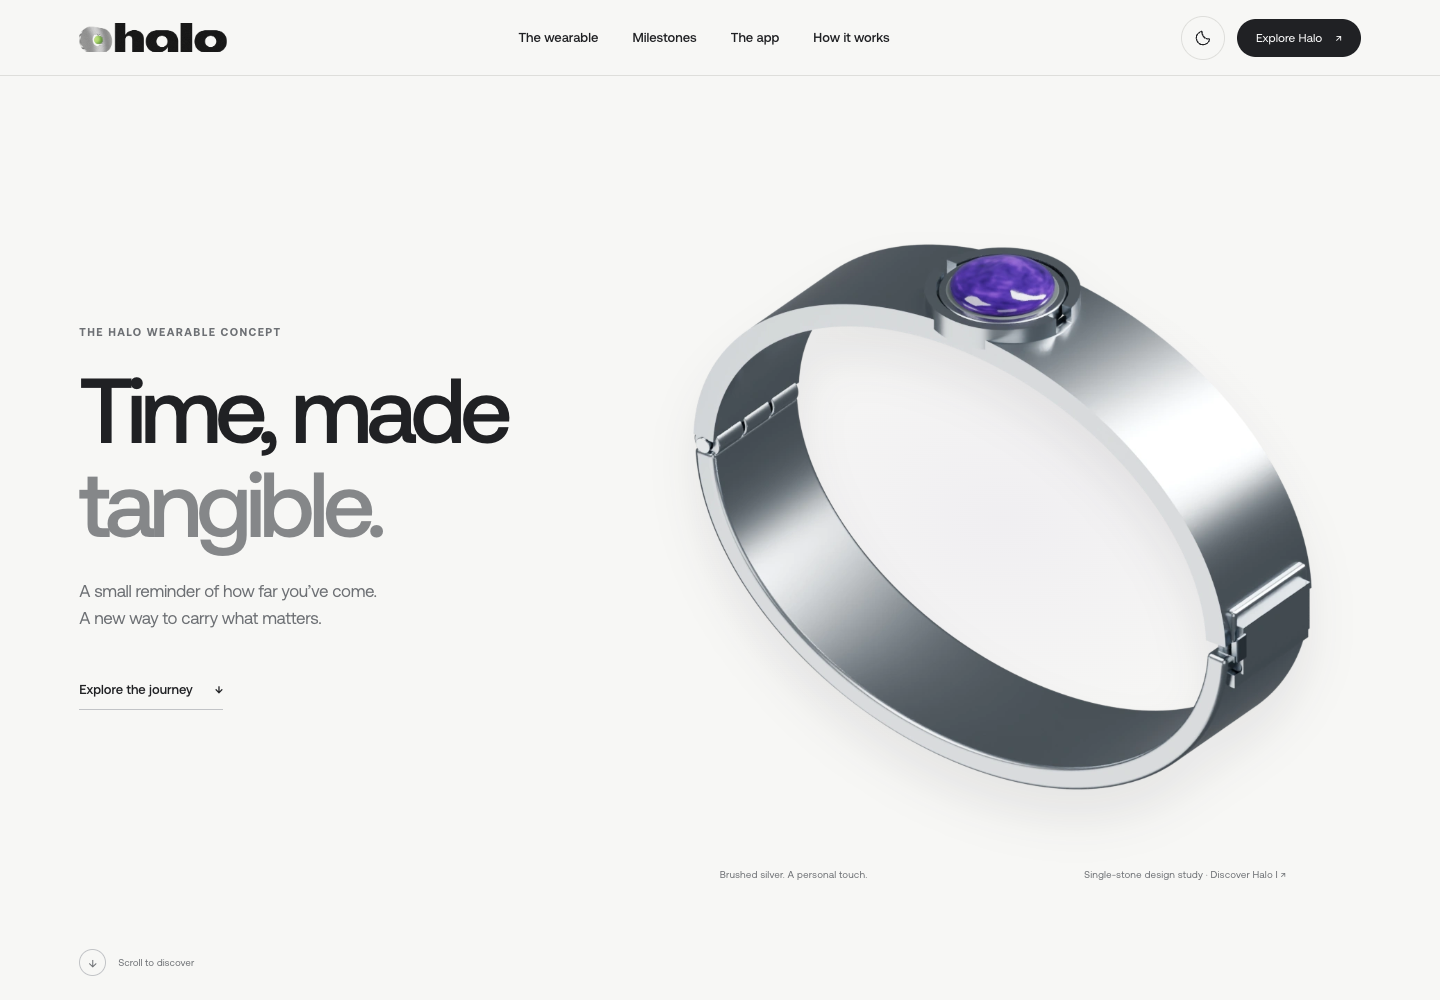
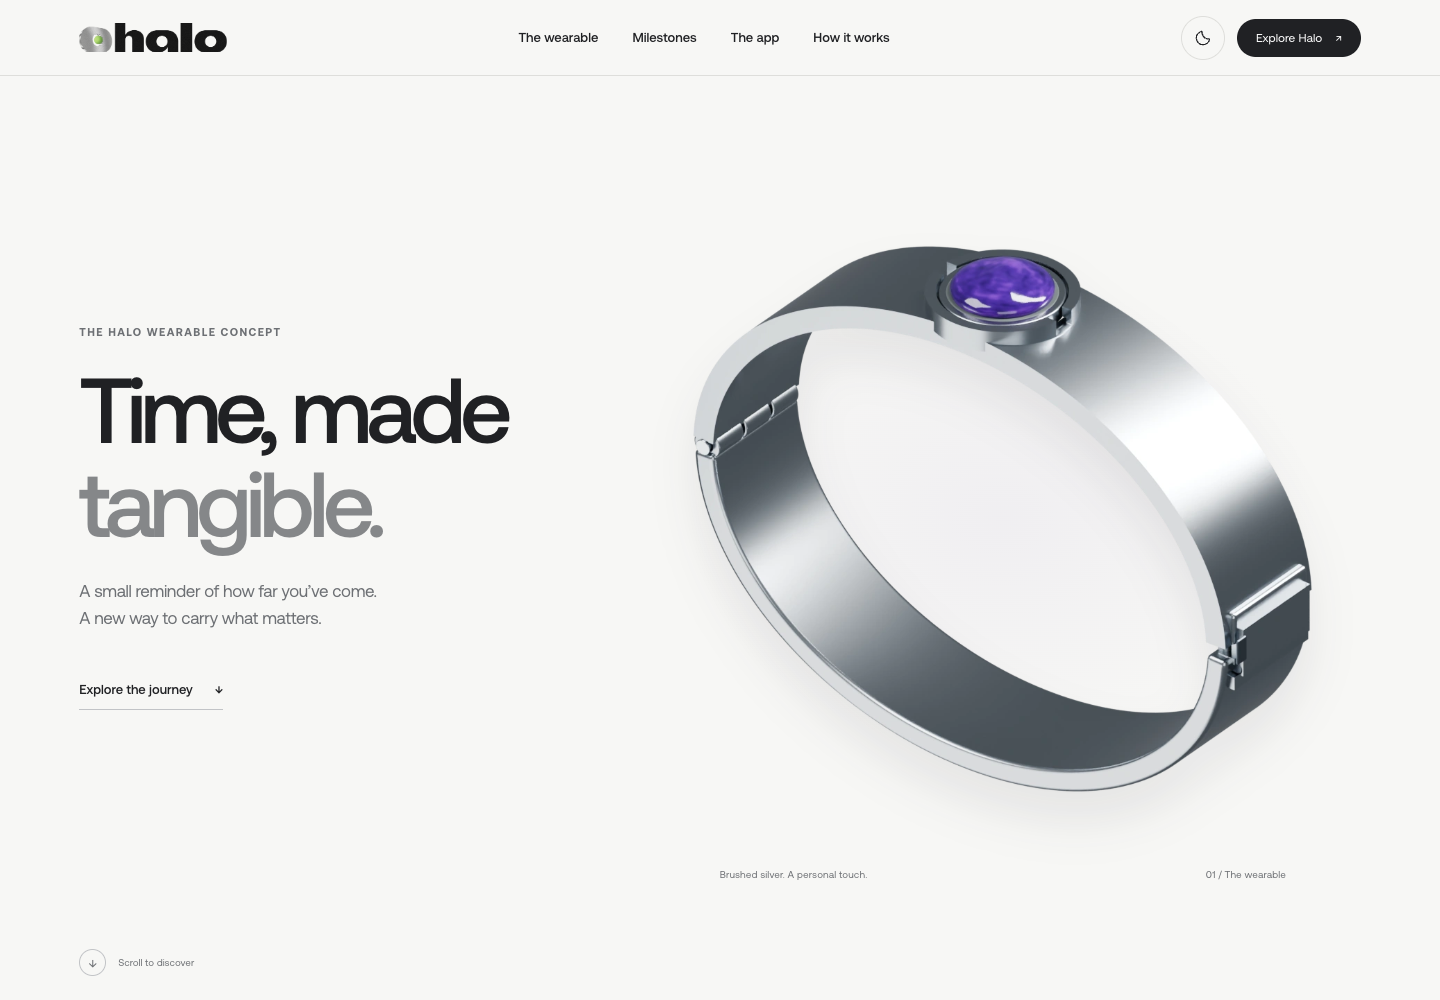
Keep landing B minimal without appended Halo I sections

diff --git a/website/index.html b/website/index.html
@@ -11,14 +11,14 @@
   <script src="theme.js?v=circular-minerals-2"></script>
   <link rel="preload" href="original/assets/fonts/AeonikPro-Regular.otf" as="font" type="font/otf" crossorigin>
   <link rel="preload" href="original/assets/fonts/AeonikPro-Medium.otf" as="font" type="font/otf" crossorigin>
-  <link rel="icon" href="original/assets/icon.png"><link rel="stylesheet" href="style.css?v=landing-b-1"><link rel="stylesheet" href="halo-i-sections.css?v=halo-i-2">
+  <link rel="icon" href="original/assets/icon.png"><link rel="stylesheet" href="style.css?v=landing-b-2">
 </head>
 <body>
   <a class="skip" href="#main">Skip to content</a>
   <header class="nav"><a class="brand" href="/" aria-label="Halo home"><span class="brand-lockup" role="img" aria-label="Halo — silver sculptural mark with a green center"><img class="brand-symbol" src="original/assets/halo-logo-sculptural.png" alt="" aria-hidden="true" width="1000" height="382"><img class="brand-lettering" src="original/assets/halo-logo-sculptural.png" alt="" aria-hidden="true" width="1000" height="382"></span></a><nav aria-label="Main"><a href="#wearable">The wearable</a><a href="#milestones">Milestones</a><a href="#app">The app</a><a href="./how-it-works/">How it works</a></nav><div class="nav-actions"><button class="theme-toggle" id="theme-toggle" type="button" aria-label="Switch to dark mode" title="Switch to dark mode" hidden><svg class="theme-moon" width="18" height="18" viewBox="0 0 24 24" fill="none" stroke="currentColor" stroke-width="1.6" stroke-linecap="round" stroke-linejoin="round" aria-hidden="true"><path d="M20.9 13.3A9 9 0 0 1 10.7 3.1a9 9 0 1 0 10.2 10.2Z"/></svg><svg class="theme-sun" width="18" height="18" viewBox="0 0 24 24" fill="none" stroke="currentColor" stroke-width="1.6" stroke-linecap="round" aria-hidden="true"><circle cx="12" cy="12" r="4"/><path d="M12 2v2m0 16v2M2 12h2m16 0h2M4.9 4.9l1.4 1.4m11.4 11.4 1.4 1.4M4.9 19.1l1.4-1.4M17.7 6.3l1.4-1.4"/></svg></button><a class="nav-cta" href="#milestones">Explore Halo <span aria-hidden="true">↗</span></a></div></header>
   <main id="main">
-    <section class="hero" id="wearable"><div class="hero-copy"><p class="eyebrow">The Halo wearable concept</p><h1>Time, made<br><span>tangible.</span></h1><p class="intro">A small reminder of how far you’ve come.<br>A new way to carry what matters.</p><a class="text-link" href="#milestones">Explore the journey <span aria-hidden="true">↓</span></a></div><div class="hero-visual"><img fetchpriority="high" src="original/assets/hero-amethyst-circular.webp" width="1200" height="1000" alt="Original Halo single-stone design study in brushed silver with a circular amethyst cabochon"><div class="hero-caption"><span>Brushed silver. A personal touch.</span><a href="#halo-i">Single-stone design study · Discover Halo I ↗</a></div></div><a href="#milestones" class="hero-scroll" aria-label="Scroll to explore milestones"><span aria-hidden="true">↓</span> Scroll to discover</a></section>
-    <section class="section-heading" id="milestones"><p class="eyebrow">A collection of beginnings</p><h2>Every day counts.<br><span>Some you can hold.</span></h2><p>Twelve monthly milestones. One personal year.<br>Explore selected stones, then discover how Halo I brings them together.</p></section>
+    <section class="hero" id="wearable"><div class="hero-copy"><p class="eyebrow">The Halo wearable concept</p><h1>Time, made<br><span>tangible.</span></h1><p class="intro">A small reminder of how far you’ve come.<br>A new way to carry what matters.</p><a class="text-link" href="#milestones">Explore the journey <span aria-hidden="true">↓</span></a></div><div class="hero-visual"><img fetchpriority="high" src="original/assets/hero-amethyst-circular.webp" width="1200" height="1000" alt="Original Halo single-stone design study in brushed silver with a circular amethyst cabochon"><div class="hero-caption"><span>Brushed silver. A personal touch.</span><span>01 / The wearable</span></div></div><a href="#milestones" class="hero-scroll" aria-label="Scroll to explore milestones"><span aria-hidden="true">↓</span> Scroll to discover</a></section>
+    <section class="section-heading" id="milestones"><p class="eyebrow">A collection of beginnings</p><h2>Every day counts.<br><span>Some you can hold.</span></h2><p>Twelve monthly milestones. One shared collection.<br>In Halo, today’s progress has a place. On your wrist, a future expression.</p></section>
     <section class="journey" id="journey" aria-labelledby="journey-title">
       <div class="journey-stage">
         <div class="journey-inner">
@@ -34,7 +34,7 @@
           </div>
           <div class="journey-controls"><div class="control-label"><span>Selected stones from the first year</span><span id="stage-count">01 — 07</span></div><div class="timeline" role="group" aria-label="Explore selected monthly stones"><div class="timeline-track"><div id="timeline-fill"></div></div>
             <button type="button" data-stage="0" aria-pressed="true" aria-label="Preview month 1"><i></i><span>01 <small>month</small></span></button><button type="button" data-stage="1" aria-pressed="false" aria-label="Preview month 2"><i></i><span>02 <small>month</small></span></button><button type="button" data-stage="2" aria-pressed="false" aria-label="Preview month 3"><i></i><span>03 <small>month</small></span></button><button type="button" data-stage="3" aria-pressed="false" aria-label="Preview month 4"><i></i><span>04 <small>month</small></span></button><button type="button" data-stage="4" aria-pressed="false" aria-label="Preview month 5"><i></i><span>05 <small>month</small></span></button><button type="button" data-stage="5" aria-pressed="false" aria-label="Preview month 9"><i></i><span>09 <small>month</small></span></button><button type="button" data-stage="6" aria-pressed="false" aria-label="Preview month 12"><i></i><span>12 <small>month</small></span></button>
-          </div><p class="journey-note">Single-stone material studies. Halo I brings all twelve stones together. <a href="#halo-i">Explore Halo I ↗</a></p><p id="stage-announcement" class="sr-only" role="status" aria-live="polite"></p></div>
+          </div><p class="journey-note">One mineral identity across digital milestones and the wearable concept.</p><p id="stage-announcement" class="sr-only" role="status" aria-live="polite"></p></div>
         </div>
       </div>
     </section>
@@ -44,8 +44,7 @@
       <figure><div class="phone"><img src="original/assets/app-companion.webp" width="750" height="1630" loading="lazy" alt="Halo companion screen with Sage the owl"></div><figcaption><span>02 / Your companion</span><h3>A familiar presence.</h3><p>A small moment to check in with yourself.</p></figcaption></figure>
       <figure><div class="component-preview gallery-preview"><p class="preview-label">Material preview</p><img src="original/assets/native-90-circular.webp" width="900" height="750" loading="lazy" alt="Aquamarine native SwiftUI milestone component preview"><p class="preview-day">Month 05</p><p class="preview-mineral">Aquamarine</p><p class="preview-state">Mark</p></div><figcaption><span>03 / Your milestones</span><h3>Time, in a new light.</h3><p>One stone for every completed month. A collection that holds your first year.</p></figcaption></figure>
     </div><p class="demo-note">App screens show illustrative demo data. Mineral images are design studies; natural stones vary.</p></section>
-    <!-- HALO_I_SECTIONS -->
-    <section class="closing"><img src="original/assets/icon.png" width="84" height="84" alt="Halo app icon"><p class="eyebrow">Make it meaningful</p><h2>Keep going.<br>Keep it close.</h2><a class="nav-cta" href="./how-it-works/#reserve">Join the waitlist <span aria-hidden="true">↗</span></a><a class="closing-detail" href="#halo-i">Discover Halo I</a></section>
-  </main><footer><span class="brand-lockup" role="img" aria-label="Halo — silver sculptural mark with a green center"><img class="brand-symbol" src="original/assets/halo-logo-sculptural.png" alt="" aria-hidden="true" width="1000" height="382"><img class="brand-lettering" src="original/assets/halo-logo-sculptural.png" alt="" aria-hidden="true" width="1000" height="382"></span><p>Halo I is a product concept in development. Natural materials vary.<br>Original single-stone imagery explores the design language; Halo I holds twelve earned stones.</p><nav class="page-links" aria-label="More Halo"><a href="./how-it-works/">How it works ↗</a><a href="./original/">Original design archive ↗</a></nav><a href="./how-it-works/#reserve">Join the waitlist ↗</a></footer>
-  <script src="halo-i-catalog.js?v=halo-i-2"></script><script src="milestones.js?v=landing-b-1"></script><script src="app.js?v=landing-b-1"></script><script src="halo-i-sections.js?v=halo-i-2"></script>
+    <section class="closing"><img src="original/assets/icon.png" width="84" height="84" alt="Halo app icon"><p class="eyebrow">Make it meaningful</p><h2>Keep going.<br>Keep it close.</h2><a class="nav-cta" href="./how-it-works/#reserve">Join the waitlist <span aria-hidden="true">↗</span></a></section>
+  </main><footer><span class="brand-lockup" role="img" aria-label="Halo — silver sculptural mark with a green center"><img class="brand-symbol" src="original/assets/halo-logo-sculptural.png" alt="" aria-hidden="true" width="1000" height="382"><img class="brand-lettering" src="original/assets/halo-logo-sculptural.png" alt="" aria-hidden="true" width="1000" height="382"></span><p>Wearable is a design concept, not an available product or physical reward.<br>Digital milestones reflect completed sober time. Physical production remains exploratory.</p><nav class="page-links" aria-label="More Halo"><a href="./how-it-works/">How it works ↗</a><a href="./original/">Original design archive ↗</a></nav><a href="./how-it-works/#reserve">Join the waitlist ↗</a></footer>
+  <script src="halo-i-catalog.js?v=halo-i-2"></script><script src="milestones.js?v=landing-b-1"></script><script src="app.js?v=landing-b-1"></script>
 </body></html>

diff --git a/website/variants/index.html b/website/variants/index.html
@@ -4,8 +4,8 @@
 <main><p class="eyebrow">HALO / DESIGN COMPARISON</p><h1>Four ways to<br>tell the story.</h1><p class="intro">B is the main landing page. Each alternative has its own permanent URL for review and direct traffic tests.</p>
 <div class="grid">
 <article><a class="preview" href="/variants/a"><img src="previews/a.png" width="1440" height="1000" alt="A: Support-system hero with a coastal photograph and Halo bracelet"></a><div class="copy"><p class="eyebrow">A / SUPPORT SYSTEM</p><h2>A support system.<br>For your progress.</h2><p>People, wearable, and Luna’s twelve-month evolution.</p><a class="open" href="/variants/a">Open version A ↗</a></div></article>
-<article><a class="preview" href="/variants/b"><img src="previews/b.png" width="1440" height="1000" alt="B: Time, made tangible with a large silver and amethyst bracelet"></a><div class="copy"><p class="eyebrow">B / MAIN SITE</p><h2>Time,<br>made tangible.</h2><p>The minimal amethyst hero, mineral explorer, and new Halo I story.</p><a class="open" href="/variants/b">Open version B ↗</a></div></article>
+<article><a class="preview" href="/variants/b"><img src="previews/b.png" width="1440" height="1000" alt="B: Time, made tangible with a large silver and amethyst bracelet"></a><div class="copy"><p class="eyebrow">B / MAIN SITE</p><h2>Time,<br>made tangible.</h2><p>The minimal amethyst hero, scrolling stones, mineral collection, and app gallery.</p><a class="open" href="/variants/b">Open version B ↗</a></div></article>
 <article><a class="preview" href="/variants/c"><img src="previews/c.png" width="1440" height="1000" alt="C: The detailed companion-led Halo landing page"></a><div class="copy"><p class="eyebrow">C / GROWING TOGETHER</p><h2>You meet them once.<br>Then you grow together.</h2><p>A deeper companion story, monthly chapters, and year-case exploration.</p><a class="open" href="/variants/c">Open version C ↗</a></div></article>
 <article><a class="preview" href="/variants/d"><img src="previews/d.png" width="1440" height="1000" alt="D: Ivory and sage design with a sunlit bracelet and keepsake cabinet"></a><div class="copy"><p class="eyebrow">D / IVORY &amp; SAGE</p><h2>A year,<br>made visible.</h2><p>A warmer product story, keepsake cabinet, and interactive ritual.</p><a class="open" href="/variants/d">Open version D ↗</a></div></article>
-</div><p class="note">These are saved design directions. Earlier imagery and material studies are retained for comparison; the main site describes the current Halo I proposal. All signup links lead to the same Halo waitlist.</p></main>
+</div><p class="note">These are saved design directions. Each keeps its own visual language; product imagery remains conceptual. All signup links lead to the same Halo waitlist.</p></main>
 <footer>Separate URLs · No automatic traffic allocation or conversion analytics configured.</footer></body></html>

diff --git a/website/style.css b/website/style.css
@@ -1,9 +1,4 @@
 /* Candidate B is the visual source of truth. Reuse its preserved design and assets. */
 @import url("./original/style.css");
 
-.hero-caption{gap:16px;align-items:baseline}
-.hero-caption a{text-align:right;line-height:1.5}
-.journey-note a{display:inline-block;text-decoration:underline;text-underline-offset:3px}
-.closing-detail{display:block;width:fit-content;margin:24px auto 0;font-size:13px;color:var(--muted)}
-@media(max-width:700px){.hero-caption{max-width:78%}.hero-caption>span{max-width:40%}.hero-caption>a{max-width:57%}}
 @media(min-width:701px) and (max-width:900px){.nav{padding-inline:24px}.nav nav{gap:12px;font-size:12px}.nav .brand-lockup{width:124px}.nav-actions{gap:8px}.nav-cta{padding:12px 16px;font-size:11px}}

diff --git a/README.md b/README.md
@@ -14,13 +14,13 @@ pnpm build
 pnpm start
 ```
 
-`website/` is the editable source for the current Halo marketing experience, imported from the September 29 Halo site. It preserves Aeonik Pro, the supplied sculptural logo, light/dark themes, the selected “Time, made tangible” hero (candidate B), its amethyst artwork, and the original stone-lift scroll interaction. `website/halo-i-sections.html` adds the physical product and unboxing story. The build inserts this fragment into `website/index.html` and normalizes asset URLs into `public/halo-site/`. That output is generated and ignored by Git.
+`website/` is the editable source for the current Halo marketing experience, imported from the September 29 Halo site. It preserves Aeonik Pro, the supplied sculptural logo, light/dark themes, the selected “Time, made tangible” hero (candidate B), its amethyst artwork, and the original stone-lift scroll interaction. The homepage retains B’s original sequence: hero, stone explorer, mineral collection, app gallery, and closing. The build normalizes asset URLs into `public/halo-site/`. That output is generated and ignored by Git.
 
 Next.js rewrites `/`, `/how-it-works`, and `/original` to these complete static documents before filesystem routes run. This preserves the approved design without loading the legacy React landing page's global styling, marquee, or client bundle. Existing `/demo`, `/contact`, `/about`, `/old`, and `/api/subscribe` routes remain available. The old `app/page.tsx` is retained as historical fallback code, not the marketing source. Edit `website/index.html` for the homepage.
 
 `website/original/` preserves candidate B exactly and supplies the homepage’s shared styles and image assets. The root imports those styles instead of duplicating them. `/original` remains a historical design archive with its earlier schedule.
 
-The homepage’s seven material studies are selected examples from months 1, 2, 3, 4, 5, 9 and 12, mapped through `website/milestones.js` to the canonical catalog. Asset numbers are historical render IDs, never eligibility thresholds. The original single-stone jewelry remains explicitly labelled as a design study; the Halo I sections show the current cumulative twelve-stone architecture. Preserve B’s hero and visual composition when updating product content.
+The homepage’s seven material studies are selected examples from months 1, 2, 3, 4, 5, 9 and 12, mapped through `website/milestones.js` to the canonical catalog. Asset numbers are historical render IDs, never eligibility thresholds. The homepage uses the original single-stone jewelry and app artwork. Do not append the newer Halo I, drawer, unboxing or newer mockup sections to B. The former `halo-i-sections.*` source is retained but is not loaded or inserted into the homepage. Physical concept details remain on separate pages. Preserve B’s complete visual composition when updating content.
 
 ## Product source of truth
 
@@ -42,7 +42,7 @@ The how-it-works waitlist posts to the existing `/api/subscribe` Mailchimp integ
 | URL | Design | Preserved source |
 | --- | --- | --- |
 | `/variants/a` | A support system. For your progress. | September 29, 11:36 refinement (`deab38c`) |
-| `/variants/b` | Time, made tangible. | Current homepage, including Halo I sections |
+| `/variants/b` | Time, made tangible. | Current minimal homepage; no added Halo I sections |
 | `/variants/c` | You meet them once. Then you grow together. | Companion page from the same 11:36 refinement |
 | `/variants/d` | A year, made visible. | Separate ivory-and-sage `halo-i-system` concept |
 
